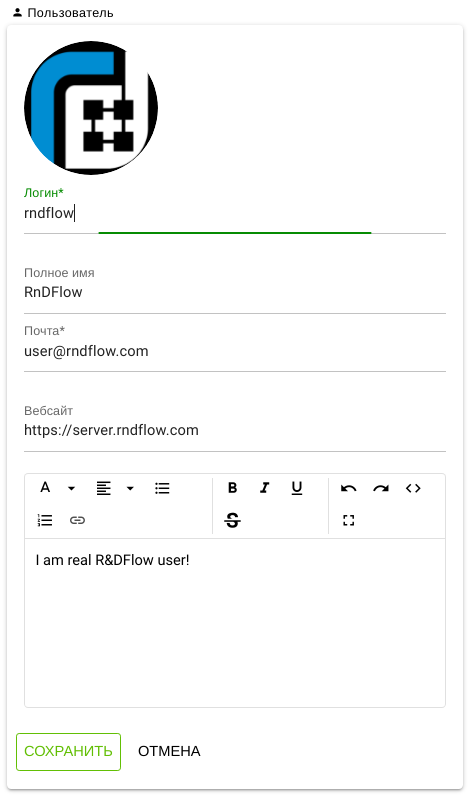
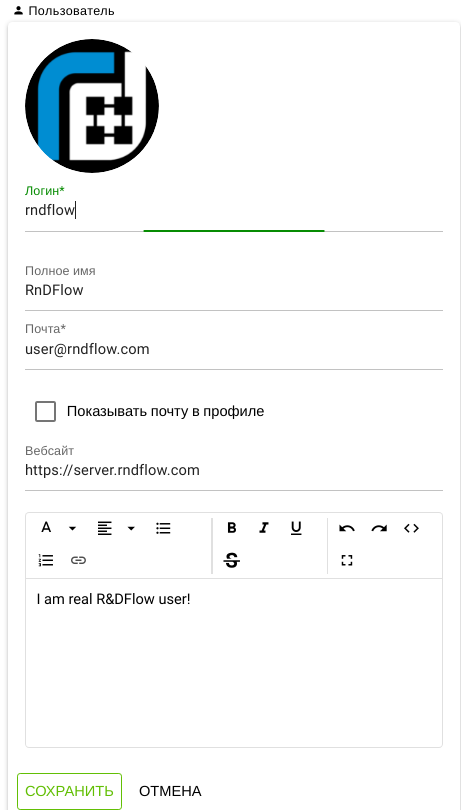
Update user profile info

diff --git a/src/desc/dashboard.md b/src/desc/dashboard.md
@@ -58,9 +58,10 @@
 Панель пользователя отображает:
 
 - Аватар
-- Имя
-- <span class="iconify-inline" data-icon="mdi:email"></span> Электронная почта
-- <span class="iconify-inline" data-icon="mdi:link"></span> Веб сайт/страница пользователя
+- Полное имя
+- <span class="iconify-inline" data-icon="mdi:at"></span> - логин
+- <span class="iconify-inline" data-icon="mdi:email"></span> - электронная почта
+- <span class="iconify-inline" data-icon="mdi:link"></span> - веб сайт/страница пользователя
 - <span class='iconify-inline' data-icon='mdi:wallet'></span> Баланс - баланс [счета][1]
 
   При нажатии происходит открытие окна [баланса](#баланс) пользователя.
@@ -76,14 +77,15 @@
 
 ### Редактирование
 
-Позволяет изменить:
+Структура:
 
 - Ававтар - щелкнуть по аватару
-- Имя
-- <span class="iconify-inline" data-icon="mdi:email"></span> Электронная почта
-- <span class="iconify-inline" data-icon="mdi:link"></span> Веб сайт/страница пользователя
-- Описание пользователя
-- Время последнего подключения
+- Логин
+- Полное имя
+- Почта- электронная почта
+- <span class="iconify-inline" data-icon="mdi:checkbox-blank-outline"></span> Показывать почту в профиле - включает/выключает отображение почты в [галерее][6] в разделе **ПОЛЬЗОВАТЕЛИ**.
+- Веб сайт - веб сайт пользователя
+- Редактор - редактор ввода описания пользователя
 - Кнопка "СОХРАНИТЬ"
 - Кнопка "ОТМЕНА"
 
@@ -126,3 +128,4 @@
 [3]: /docs/desc/workspace.md#участники
 [4]: ./workspace.md
 [5]: ./project.md
+[6]: ./explorer.md
